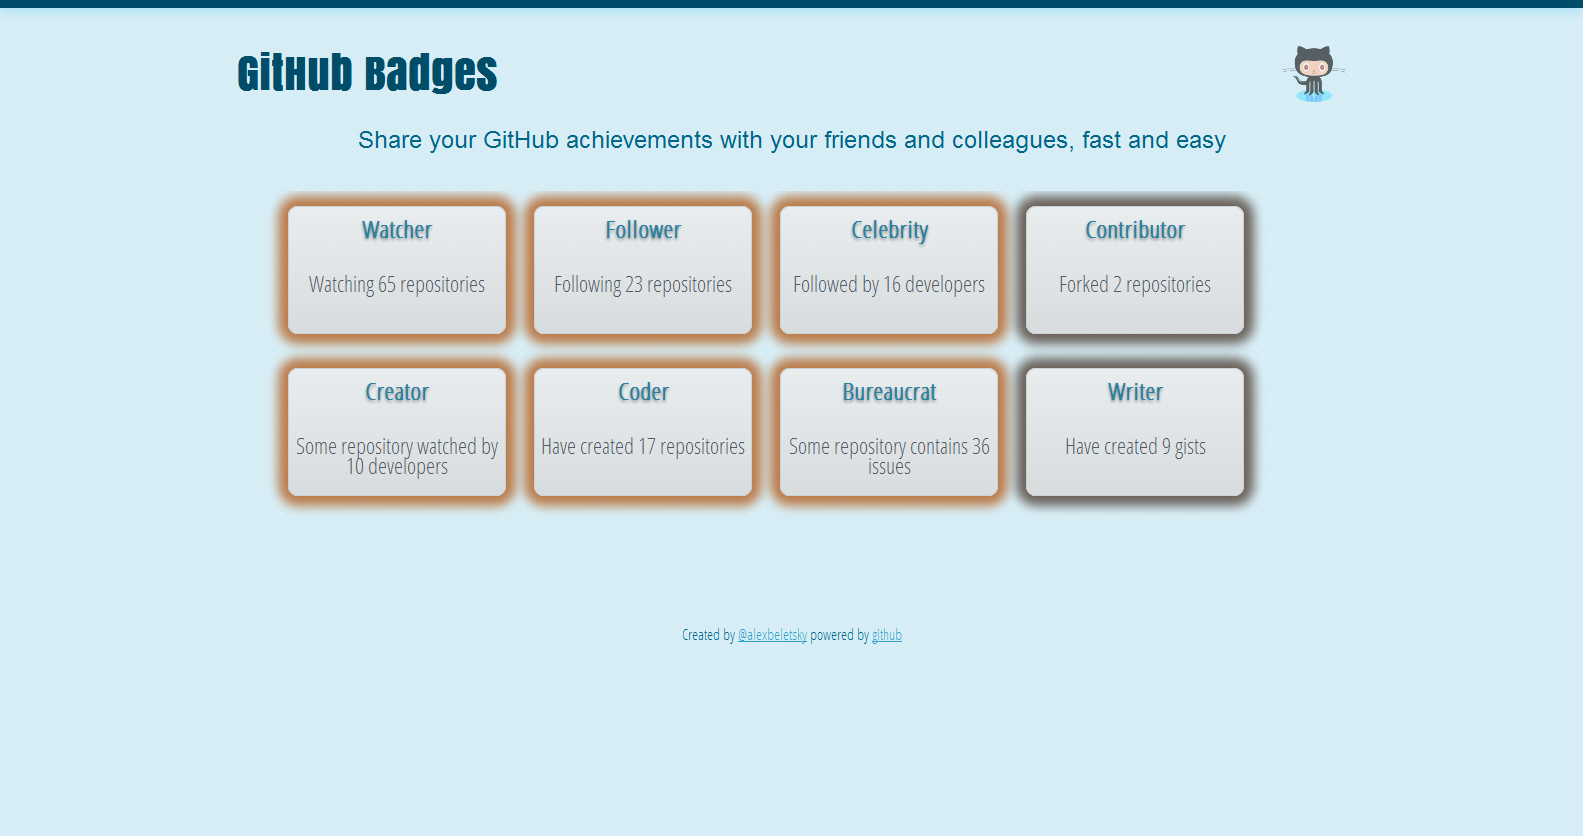
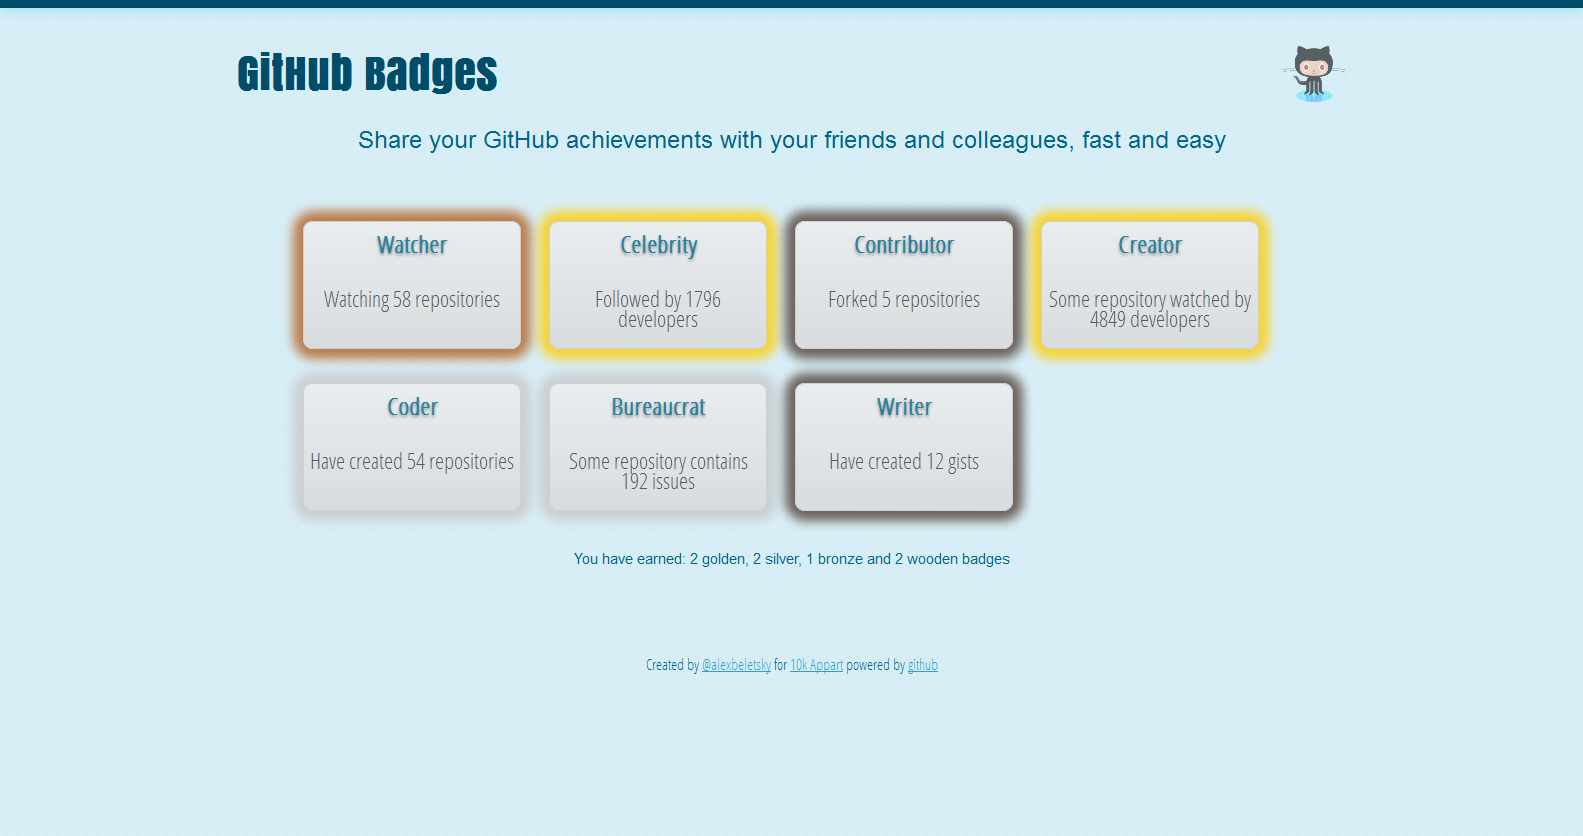
All submitted issues resolved;

Changed region(s): [[0.1548, 0.2177, 0.8048, 0.6842], [0.4024, 0.7464, 0.5881, 0.8086]]

diff --git a/js/app.min.js b/js/app.min.js
@@ -39,7 +39,7 @@ options.badge='Bureaucrat';options['wooden']={propertyName:'issues',low:5,high:1
 Writer.prototype=(function(){return{applyForBadge:function(info,context){var criteria=new Criteria();var options=[];var format=function(gists){return'Have created '+gists+' gists';}
 options.badge='Writer';options['wooden']={propertyName:'gists',low:10,high:50,format:format};options['bronze']={propertyName:'gists',low:50,high:100,format:format};options['silver']={propertyName:'gists',low:100,high:1000,format:format};options['golden']={propertyName:'gists',low:1000,format:format};criteria.applyForBadge(info,context,options);}}})();$(function(){var badges=[new Watcher(),new Follower(),new Celebrity(),new Contributor(),new Creator(),new Coder(),new Bureaucrat(),new Writer()];function startProgress(account){$('#box').fadeOut('slow',function(){showBadges(account);});}
 function showBadges(account){$('#loading').show();var github=new GitHub();var callback=function(d){$('#loading').hide();var context={badges:[]};$.each(badges,function(i,badge){badge.applyForBadge(d,context);});var summary={toString:function(){return'You have earned: '
-+(this['golden']||0)+' golden, '+(this['silver']||0)+' silver, '+(this['bronze']||0)+' bronze and '+(this['wooden']||0)+' wooden badges.';}};var showNextBadge=function(current){if(current==context.badges.length){if(current==0){$('.badges').append('<span class="info">Your github activity is very low. You earned nothing, keep up good work!</span>');return;}
++(this['golden']||0)+' golden, '+(this['silver']||0)+' silver, '+(this['bronze']||0)+' bronze and '+(this['wooden']||0)+' wooden badges';}};var showNextBadge=function(current){if(current==context.badges.length){if(current==0){$('.badges').append('<span class="info">Your github activity is very low. You earned nothing, keep up good work!</span>');return;}
 var $earnings=$('<span class="earnings">'+summary.toString()+'</span>').hide();$('.badges').append($earnings);$earnings.fadeIn('fast');return;}
 var badge=context.badges[current];var type=badge.type,name=badge.name,info=badge.info;collectSummary(summary,type);var $badge=$('<div class="badge"><div title="'+type+' badge" class="body '+type+'-outline"><h2>'+name+'</h2><p>'+info+'</p></div></div>').hide();$('.badges').append($badge);$badge.fadeIn('slow',function(){showNextBadge(++current)});}
 $('.badges').show();showNextBadge(0);}
@@ -47,5 +47,6 @@ var collectSummary=function(summary,type){if(summary[type]==undefined){summary[t
 summary[type]++;}
 var error=function(){$('#loading').hide();$('.badges').show();$('.badges').append('<span class="error">Sorry, but it looks like user with such account does not exists...</span>');}
 location.hash=account;github.init(account,callback,error);}
-$('.badges').hide().empty();$('.border').css('background','#004d69');$('button.submit').bind('click',function(){var account=$('#github-account').val();setTimeout(startProgress(account),200);event.preventDefault();});$('#github-account').live('keyup',function(event){var account=$('#github-account').val();if(account!=''&&event.keyCode==13){setTimeout(startProgress(account),200);}
+$('.badges').hide().empty();$('.border').css('background','#004d69');$('button.submit').bind('click',function(){var account=$('#github-account').val().trim();if(account!=''){setTimeout(startProgress(account),200);}
+event.preventDefault();});$('#github-account').live('keyup',function(event){var account=$('#github-account').val().trim();if(account!=''&&event.keyCode==13){setTimeout(startProgress(account),200);}
 event.preventDefault();});if(location.hash){$('#box').hide();startProgress(location.hash.substr(1));}});

diff --git a/css/badges.css b/css/badges.css
@@ -8,14 +8,14 @@ header h1 { display: block; font-family: 'Anton', sans-serif; font-size: 43px; t
 header h1 a { display: inline; color: #004d69; text-decoration: none }
 header .octocat { display: inline; position: relative; background: url(../img/octocat.png); height: 64px; width: 64px; margin-top: 8px; opacity: 0.6; float: right; }
 #main { clear: both; display: block; margin: 0 auto; padding: 10px 0px 10px 0px;  }
-.outer { min-height: 360px; margin: 2em; }
-#box { position: relative; display: block; height: auto; min-height: 360px;  padding: 1em; background: #82bbcf; -webkit-border-radius: 15px; -moz-border-radius: 15px; border-radius: 15px; opacity: 0.7;  border: 1px solid #80a0ab; }
+.outer { min-height: 360px; padding: 4em; }
+#box { position: relative; display: block; height: auto; min-height: 360px; background: #82bbcf; -webkit-border-radius: 15px; -moz-border-radius: 15px; border-radius: 15px; opacity: 0.7;  border: 1px solid #80a0ab; }
 .default-shadow { -webkit-box-shadow: 1px 1px 15px 4px #73868c; -moz-box-shadow: 1px 1px 15px 4px #73868c; box-shadow: 1px 1px 15px 4px #73868c; }
 #main p { font-size: x-large }
-#github-account { width: 50%; font-size: 20px; padding: .5em .5em; position: relative; top: 152px; border: 1px solid #003140; outline: 10px solid rgba(89, 116, 125, 0.6);  }
-button.submit { width: 120px; height: 46px; position: relative; top: 152px; left: 10px; }
+#github-account { width: 50%; font-size: 20px; padding: .5em .5em; position: relative; top: 146px; border: 1px solid #003140; outline: 10px solid rgba(89, 116, 125, 0.6);  }
+button.submit { width: 120px; height: 46px; position: relative; top: 146px; left: 10px; }
 a { color: #2ea0c9 }
-.badges { position: relative; display: block; height: auto; min-height: 100%; overflow: auto; padding: 1em; } 
+.badges { position: relative; display: block; height: auto; min-height: 360px; } 
 .badge { display:inline-block; float: left; width: 240px; height: 140px; opacity: 0.8; margin-left: 6px; margin-bottom: 22px; }
 .body
 {

diff --git a/index.html b/index.html
@@ -32,25 +32,24 @@
             <div class="outer">
                 <div id="box" class="default-shadow">
                     <input id="github-account" placeholder="Your github account name..." />
-                    <button type="submit" class="submit">Submit</button>
+                    <button type="submit" class="submit">Badge me</button>
                 </div>           
                 <div class="badges"></div> 
             </div>
         </div>
         <footer>
             <p>
-                Created by <a href="http://twitter.com/#!/alexbeletsky">@alexbeletsky</a> powered by <a href="https://github.com/alexanderbeletsky/10k">github</a>
+                Created by <a href="http://twitter.com/#!/alexbeletsky">@alexbeletsky</a> for <a href="http://10k.aneventapart.com/">10k Appart</a> powered by <a href="https://github.com/alexanderbeletsky/10k">github</a>
             </p>
         </footer>
     </div>
     <script src="http://ajax.aspnetcdn.com/ajax/jQuery/jquery-1.6.2.min.js" type="text/javascript"></script>
 
-    <script src="js/github.js" type="text/javascript"></script>
+<!--    <script src="js/github.js" type="text/javascript"></script>
     <script src="js/badges.js" type="text/javascript"></script>
-    <script src="js/app.js" type="text/javascript"></script>
+    <script src="js/app.js" type="text/javascript"></script>-->
 
-<!--    <script src="js/app.min.js" type="text/javascript"></script>
--->    
+    <script src="js/app.min.js" type="text/javascript"></script>
     <script type="text/javascript">
         var _gaq = _gaq || [];
         _gaq.push(['_setAccount', 'UA-25089983-1']);

diff --git a/js/app.js b/js/app.js
@@ -27,7 +27,7 @@ $(function () {
             var summary = {
                 toString: function () {
                     return 'You have earned: '
-                        + (this['golden'] || 0) + ' golden, ' + (this['silver'] || 0) + ' silver, ' + (this['bronze'] || 0) + ' bronze and ' + (this['wooden'] || 0) + ' wooden badges.';
+                        + (this['golden'] || 0) + ' golden, ' + (this['silver'] || 0) + ' silver, ' + (this['bronze'] || 0) + ' bronze and ' + (this['wooden'] || 0) + ' wooden badges';
                 }
             };
             var showNextBadge = function (current) {
@@ -81,13 +81,15 @@ $(function () {
     $('.border').css('background', '#004d69');
 
     $('button.submit').bind('click', function () {
-        var account = $('#github-account').val();
-        setTimeout(startProgress(account), 200);
+        var account = $('#github-account').val().trim();
+        if (account != '') {
+            setTimeout(startProgress(account), 200);
+        }
         event.preventDefault();
     });
 
     $('#github-account').live('keyup', function (event) {
-        var account = $('#github-account').val();
+        var account = $('#github-account').val().trim();
         if (account != '' && event.keyCode == 13) {
             setTimeout(startProgress(account), 200);
         }
